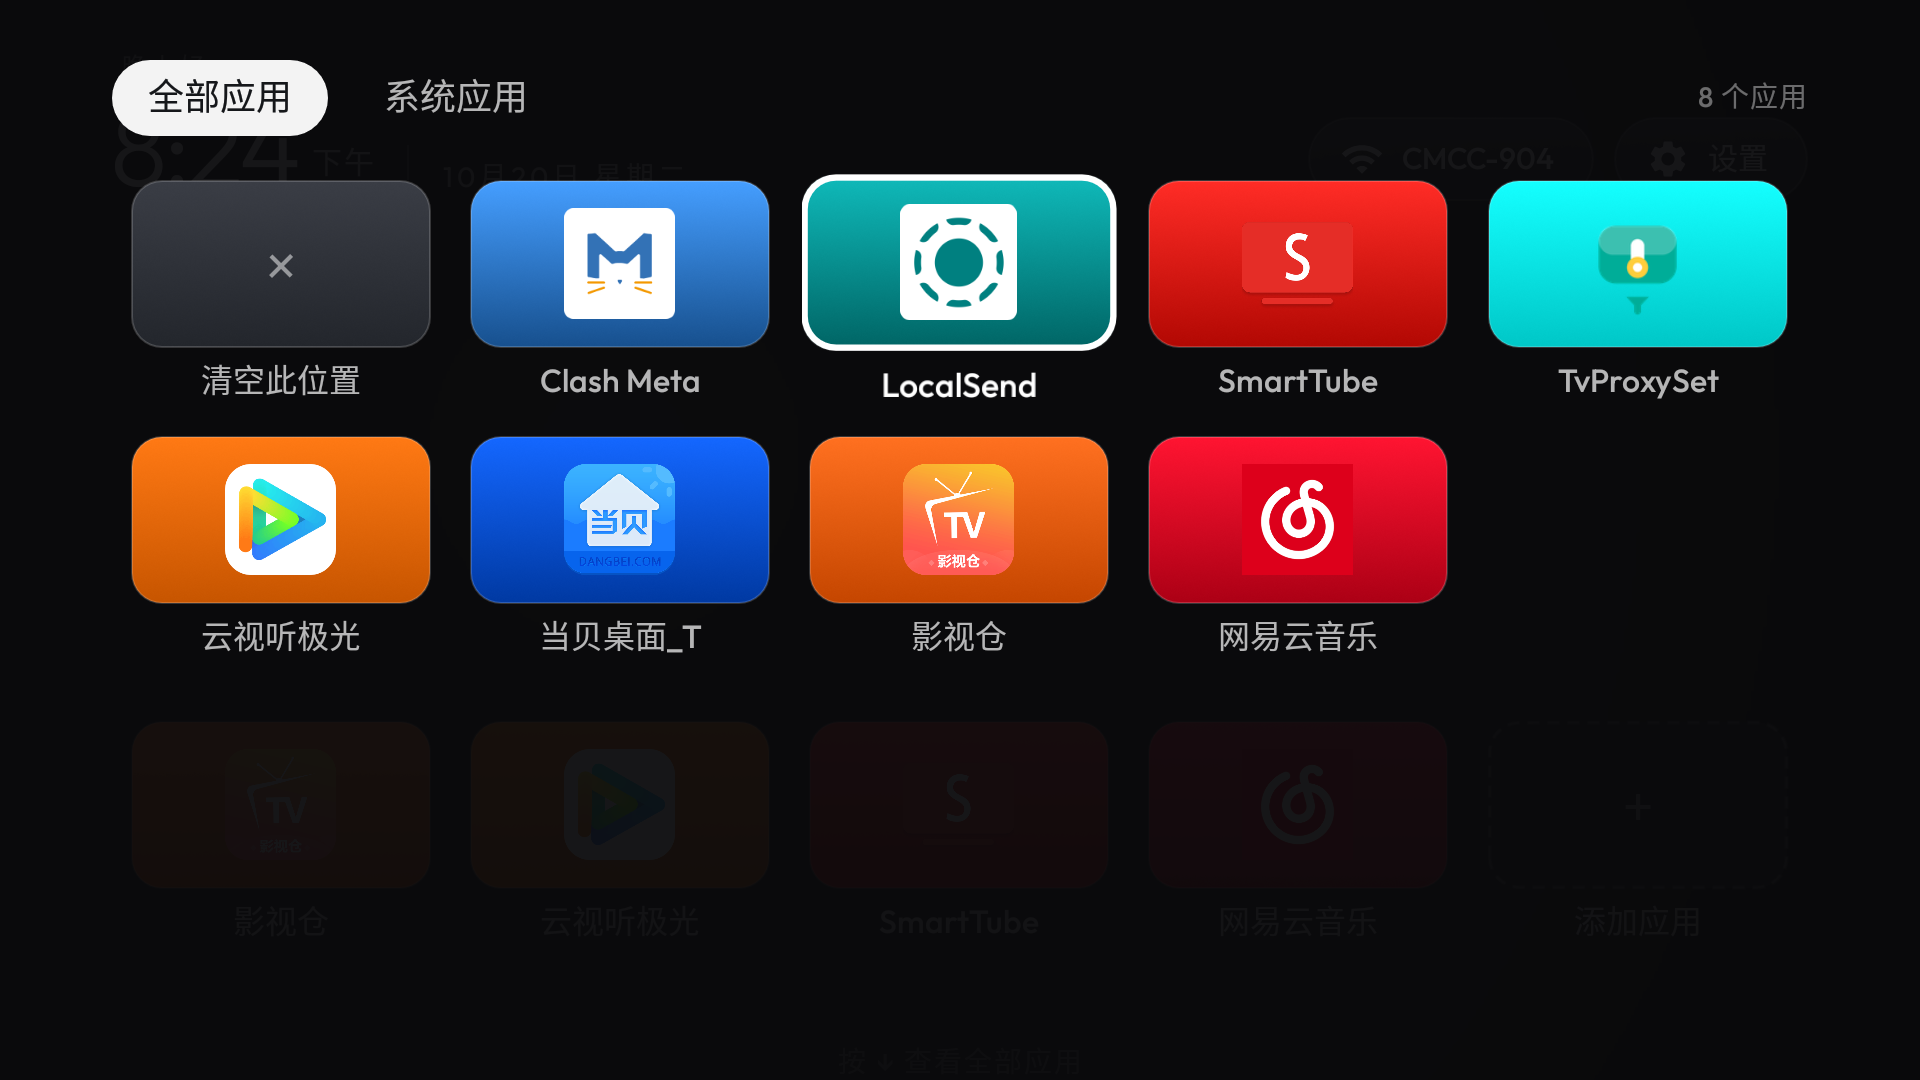
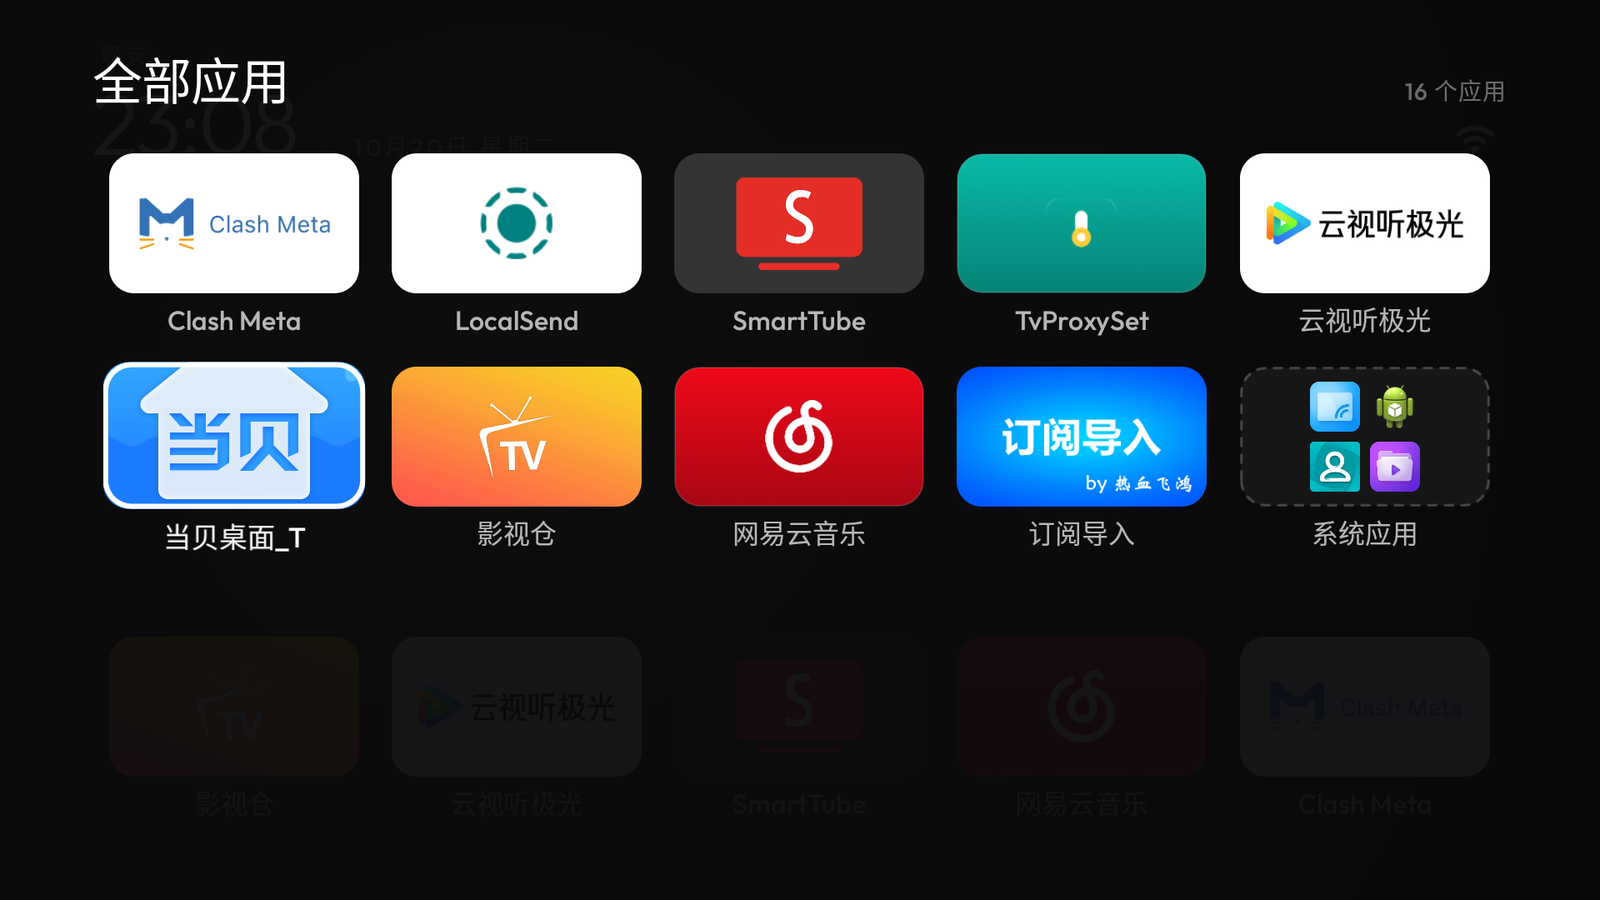
docs: replace the screenshots with the current build
The old shots came from an earlier icon pipeline where a lifted background could swallow the
logo (网易云音乐 showed as a plain red card). These are from the released build, captured on a
Hisense Android 9 TV: Home, Up-toolbar, drawer, system-apps folder, slot picker, uninstall
sheet and file share. A screenshot helper no longer presses volume keys, so no volume OSD.

diff --git a/README.md b/README.md
@@ -8,6 +8,17 @@ Built for a 1.3 GB / MediaTek TV running Android 9, and kept small on purpose: *
 
 ![Home](docs/screenshots/home.png)
 
+<sub>Captured on a Hisense Android 9 TV at 1920×1080, from the build in this repository.</sub>
+
+| | |
+|---|---|
+| ![Up-toolbar](docs/screenshots/toolbar.png) | ![App drawer](docs/screenshots/drawer.png) |
+| **Up** brings out the toolbar: File share, Wi-Fi, Settings. A connection dot stays in the corner otherwise. | **Down** opens every app, five cards per row, system apps folded into one folder. |
+| ![Slot picker](docs/screenshots/slot-picker.png) | ![System apps](docs/screenshots/folder-system-apps.png) |
+| **MENU** on a slot re-opens the drawer as a picker: choose what that slot holds. | The system-apps folder, entered from the drawer. |
+| ![Uninstall](docs/screenshots/drawer-uninstall.png) | ![File share](docs/screenshots/file-share.png) |
+| **MENU** on an app offers Uninstall — never shown for a system app. | **File share**: scan, send an APK from a phone, install it; received files stay listed. |
+
 ## What it does
 
 - **Shelf Home** — one row of nest slots instead of every app. Large cards, dim labels, the rest of the
